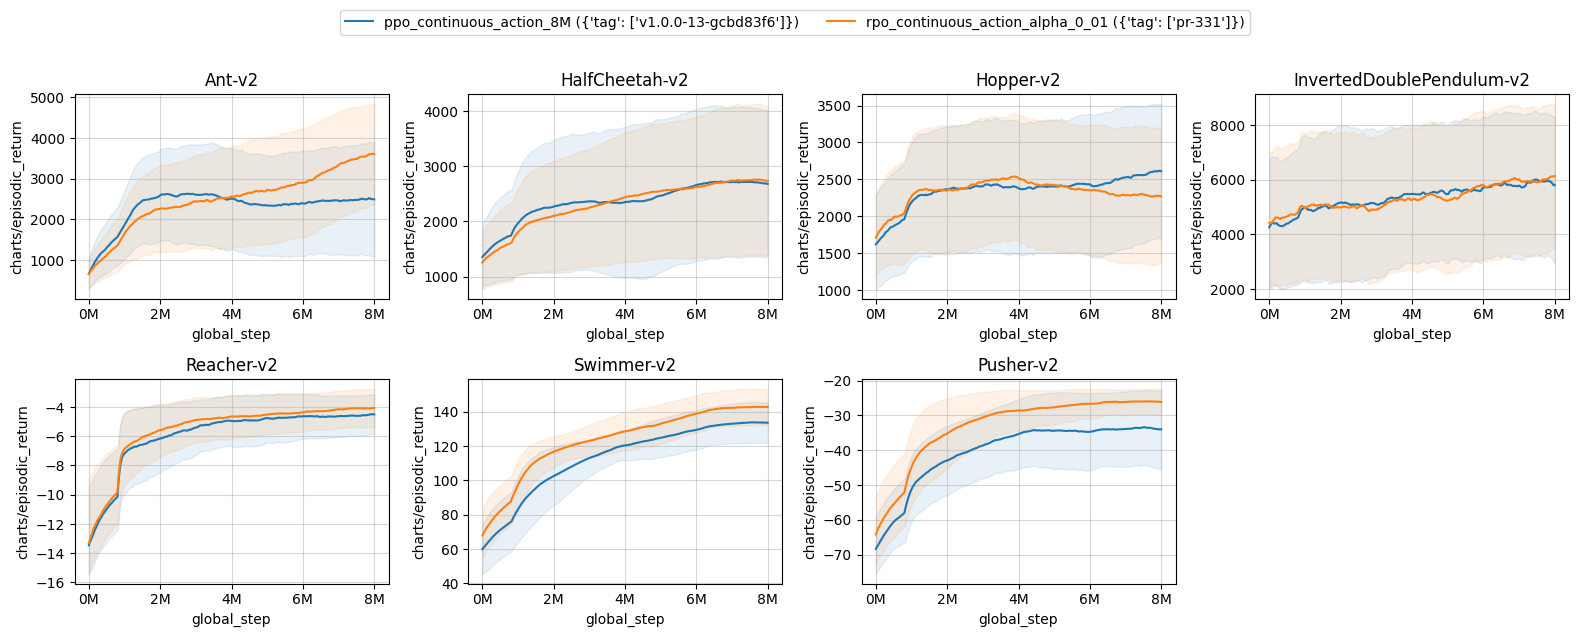
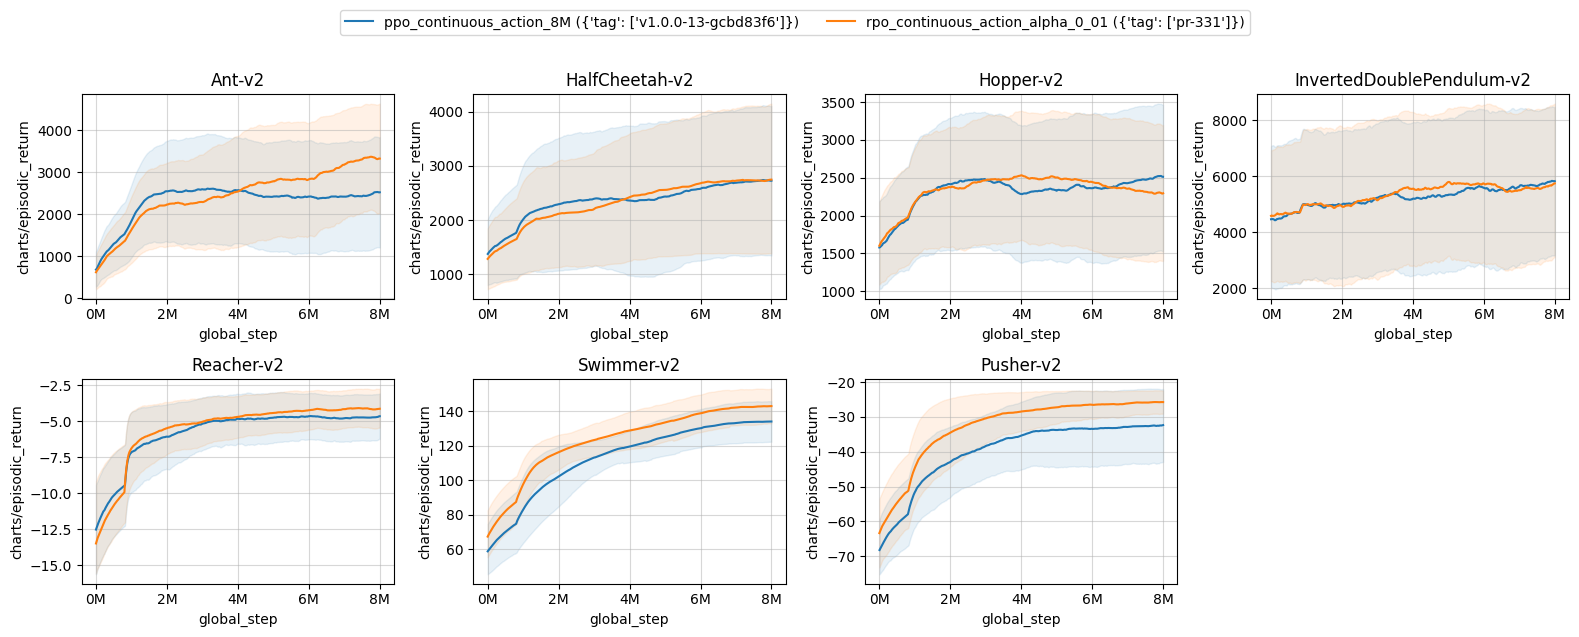
fix some text and update mujoco v2 results

diff --git a/docs/rl-algorithms/rpo.md b/docs/rl-algorithms/rpo.md
@@ -13,13 +13,13 @@ Original paper:
 
 | Variants Implemented      | Description |
 | ----------- | ----------- |
-| :material-github: [`rpo_continuous_action.py`](https://github.com/vwxyzjn/cleanrl/blob/master/cleanrl/rpo_continuous_action.py), :material-file-document: [docs](/rl-algorithms/rpo/#rpo_continuous_actionpy) | For classic control tasks like Gym `Pendulum-v1`, dm_control, Pybullet. |
+| :material-github: [`rpo_continuous_action.py`](https://github.com/vwxyzjn/cleanrl/blob/master/cleanrl/rpo_continuous_action.py), :material-file-document: [docs](/rl-algorithms/rpo/#rpo_continuous_actionpy) | For classic control tasks like Gym `Pendulum-v1`, and dm_control. |
 
 Below are our single-file implementations of RPO:
 
 ## `rpo_continuous_action.py`
 
-`rpo_continuous_action.py` works with Gym (Gymnasium), dm_control, Pybullet environments with continuous action and vector observations.
+`rpo_continuous_action.py` works with Gym (Gymnasium), dm_control, Mujoco environments with continuous action and vector observations.
 
 The [rpo_continuous_action.py](https://github.com/vwxyzjn/cleanrl/blob/master/cleanrl/rpo_continuous_action.py) has the following features (similar to [ppo_continuous_action.py](https://github.com/vwxyzjn/cleanrl/blob/master/cleanrl/ppo_continuous_action.py)):
 
@@ -203,15 +203,14 @@ To run benchmark experiments, see  [benchmark/rpo.sh](https://github.com/vwxyzjn
 
         |                           | ppo_continuous_action_8M ({'tag': ['v1.0.0-13-gcbd83f6']})   | rpo_continuous_action_alpha_0_01 ({'tag': ['pr-331']})   |
         |:--------------------------|:-------------------------------------------------------------|:---------------------------------------------------------|
-        | Ant-v2                    | 2435.03 ± 955.57                                             | 3142.98 ± 787.87                                         |
-        | HalfCheetah-v2            | 2714.14 ± 1260.34                                            | 2716.46 ± 1241.38                                        |
-        | Hopper-v2                 | 2411.13 ± 657.94                                             | 2286.05 ± 590.10                                         |
-        | InvertedDoublePendulum-v2 | 5727.86 ± 367.86                                             | 5811.94 ± 281.47                                         |
-        | Reacher-v2                | -4.57 ± 0.48                                                 | -4.17 ± 0.22                                             |
-        | Swimmer-v2                | 132.43 ± 10.01                                               | 141.49 ± 8.47                                            |
-        | Pusher-v2                 | -33.60 ± 8.54                                                | -26.08 ± 2.32                                            |
-
-
+        | Ant-v2                    | 2405.17 ± 987.88                                             | 3056.22 ± 760.95                                         |
+        | HalfCheetah-v2            | 2669.75 ± 1208.94                                            | 2715.03 ± 1227.04                                        |
+        | Hopper-v2                 | 2375.85 ± 655.34                                             | 2311.24 ± 623.32                                         |
+        | InvertedDoublePendulum-v2 | 5642.71 ± 390.72                                             | 5644.14 ± 378.06                                         |
+        | Reacher-v2                | -4.80 ± 0.59                                                 | -4.10 ± 0.33                                             |
+        | Swimmer-v2                | 131.93 ± 10.09                                               | 141.20 ± 9.06                                            |
+        | Pusher-v2                 | -32.96 ± 8.70                                                | -26.17 ± 2.37                                            |
+        
         Learning curves:
         ![](../rpo/mujoco_v2_part2.png)
     
